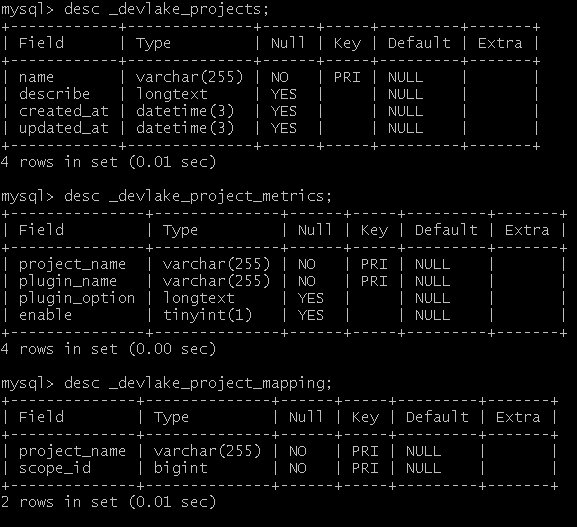
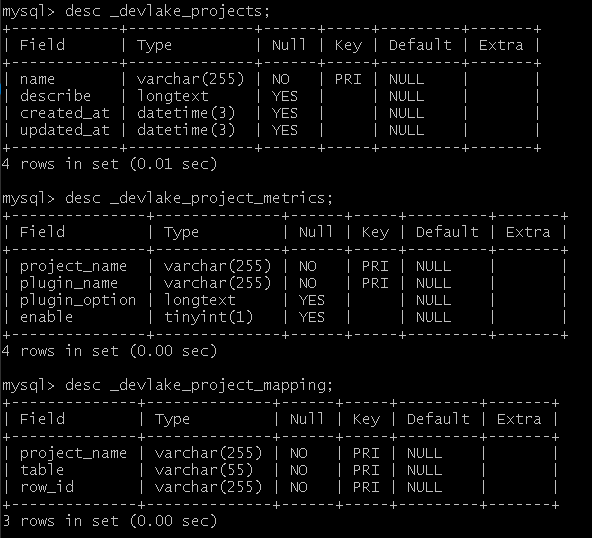
docs: fix for review
Nddtfjiang <zhicheng.jiang@merico.dev>

diff --git a/docs/DeveloperManuals/Project.md b/docs/DeveloperManuals/Project.md
@@ -10,7 +10,8 @@ description: >
 
 It contains the following two models:
  - `projects` describes a project object, including its name, creation and update time and other basic information
- - `project_metrics` describes the mapping relationship enabled by a plugin, including the name of the project and plugin on both sides of the mapping, and basic information about plugin options.
+ - `project_metrics` describes what metrics a project had enabled.
+ - `project_mapping` describes the mapping relationship of project and scope, including the name of the project、table and row_id.
 
 ![image](project_table.jpg)
 
@@ -50,50 +51,44 @@ It contains the following two models:
 |   **field**    | **type** | **length** | **description**                                            | **key** |
 | -------------- | -------- | ---------- | ---------------------------------------------------------- | ------- |
 | `project_name` | varchar  | 255        | name for project                                           | PK      |
-| `scope_id`     | bigint   | 255        | the scope id  by project mapping                           | PK      |
+| `table`        | varchar  | 255        | the table name of scope                                    | PK      |
+| `row_id`       | varchar  | 255        | the row_id in the scope table                              | PK      |
 
 
-| **project_name** | **scope_id** |
-| ---------------- | ------------ |
-| project_1        | 1            |
-| project_1        | 2            |
-| project_2        | 1            |
+| **project_name** | **table** | **row_id**               |
+| ---------------- | --------- | ------------------------ |
+| project_1        | Repo      | gitlab:GithubRepo:1:lake |
+| project_1        | Board     | jira:JiraBoard:1:lake    |
+| project_2        | Repo      | github:GithubRepo:1:lake |
 
 
 It requires each plugin to implement an interface named `PluginMetric`
 
 # 如何使用 Project
 
-1. 首先我们可以通过 `POST` `/project` 接口来创建一个全新的 `project` 对象，该对象需要一个 `project_name`字段，作为其名称，该名称唯一。
+1. 首先我们可以通过 `POST` `/projects/:projectName` 接口来创建一个全新的 `project` 对象，该对象需要一个 `projectName`字段，作为其名称，该名称唯一。
 
 当我们创建出 `project` 对象之后：
 
-- 我们可以通过 `GET` `/project` 接口来获取具体的的某一个 `project`的信息，除了名称外，这些信息里也包含了project的更新时间和创建时间。
-- 我们可以通过 `UPDATE` `/project` 接口来更新具体的某一个 `project`的信息，比如更新其相关的 `描述` 信息。
-- 我们可以通过 `GET` `/projects` 接口来获取所有的`project`信息。 
+- 我们可以通过 `GET /projects/:projectName` 接口来获取具体的的某一个 `project`的信息，除了名称外，这些信息里也包含了project的更新时间和创建时间,以及会关联所有的与当前`project`的相关的`project_metrics`和`project_mapping`信息，整合后一并返回。
+- 我们可以通过 `PATCH /projects/:projectName` 接口来更新具体的某一个 `project`的信息，比如更新其相关的 `描述` 信息。
+- 我们可以通过 `GET /projects` 接口来获取所有的`project`信息。 通过设置参数 `search` 可以对返回的信息进行过滤，通过设置参数`page_size`,`page_num`可以对返回的信息进行分页。
 
-2. 与此同时，我们可以通过 `GET` `/plugininfo` 接口来获取到 完整详细的 `插件` 信息，其中包括对应 `插件` 的每个表的结构信息。除此以外，我们也可以通过调用相对简单的 `GET` `/plugins` 来获取更为简洁的插件信息。简洁的插件信息仅包含插件名称，也就是`plugin_name`组成的列表，除此之外不包含其他任何信息。
+2. 与此同时，为了能给 project 指定需要的指标，我们可以通过调用接口 `GET` `/plugins` 来获取基本的插件信息。这将会返回一组包含`pluginName`组成的列表。
 
-3. 在上述过程之后 通过 `POST` `/project_metrics` 接口来创建一组 `project` 与 `plugins` 之间的关系。使用我们前面获取到的 `project_name` 和 `plugin_name` 来构建这种关系。同时为其配置相应的 `option`.
+3. 在上述过程之后 通过 `POST /project_metrics/:projectName/:pluginName` 接口来创建一组 `project` 与 `plugins` 之间的关系。使用我们前面获取到的 `projectName` 和 `pluginName` 来构建这种关系。同时为其配置相应的 `option`.
 
 当我们创建出一组 `project_metrics` 的关系后我们就可以做更进一步的操作：
 
-- 我们可以通过 `GET` `/project_metrics` 接口来获取一组 `project_metrics` 信息，我们可以只设置 `project_name` 或只设置 `plugin_name` 来进行筛选。也可以同时设置 `project_name` 和 `plugin_name` 此时我们将获取到一个特定的 `project_metrics` 信息。
-- 我们可以通过 `UPDATE` `/project_metrics` 接口来更新特定的一组 `project_metrics` 信息。这要求我们必须同时设置好 `project_name` 和 `plugin_name`。
+- 我们可以通过 `GET /project_metrics/:projectName/:pluginName` 接口来获取一组 `project_metrics` 信息，我们可以只设置 `projectName` 或只设置 `pluginName` 来进行筛选。也可以同时设置 `project_name` 和 `plugin_name` 此时我们将获取到一个特定的 `project_metrics` 信息。
+- 我们可以通过 `PATCH /project_metrics/:projectName/:pluginName` 接口来更新特定的一组 `project_metrics` 信息。这要求我们必须同时设置好 `projectName` 和 `pluginName`。
 
 # 关于 Project 和 Blueprint
 
 - 在 `blueprint` 的表中现在添加了一个与 `project` 相关联的字段 `project_name`，该字段表示 当前的 `blueprint` 唯一的属于某一张特定的 `project`
-- 一个`project`允许被多个 `blueprint` 的 `project_name` 字段指定。也就是`project`对`blueprint`是一对多关系
-- 可以通过以下sql 快速的查看 某个 `project` 所对应的全部 `blueprint`
-
-```
-SELECT * from `_devlake_blueprints` where `project_name`="ProjectName";
-```
-
+- 一个`project`允许被唯一的一个 `blueprint` 的 `project_name` 字段指定。也就是`project`对`blueprint`是一对一关系
 
 ## The PluginMetric Interface
-
 
 ```go
 type PluginMetric interface {
@@ -116,111 +111,4 @@ type PluginMetric interface {
     // (no concrete usage at this point)
     Settings() (p interface{})
 }
-```
-
-## models
-
-The following is the  table structure data of `project` related.
-
-```go
-type Projects struct {
-    Name string `gorm:"primaryKey" gorm:"type:varchar(255)"`
-    describe string `gorm:"type:text"`
-    CreatedAt time.time
-    UpdatedAt time.time
-}
-
-func (Projects) TableName() {
-    return "_devlake_projects"
-}
-
-type ProjectMetrics struct { 
-    ProjectName  string `gorm:"primaryKey" gorm:"type:varchar(255)"`
-    PluginName   string `gorm:"primaryKey" gorm:"type:varchar(255)"`
-    PluginOption string `gorm:"type:text"`
-}
-
-func (ProjectMetrics) TableName() {
-    return "_devlake_project_metrics"
-}
-
-type ProjectMetrics struct { 
-    ProjectName  string `gorm:"primaryKey" gorm:"type:varchar(255)"`
-    PluginName   string `gorm:"primaryKey" gorm:"type:varchar(255)"`
-    PluginOption string `gorm:"type:text"`
-}
-
-type ProjectMapping struct {
-	ProjectName string `gorm:"primaryKey;type:varchar(255)"`
-	ScopeID     string `gorm:"primaryKey;type:varchar(255)"`
-}
-
-func (ProjectMapping) TableName() string {
-	return "_devlake_project_mapping"
-}
-
-```
-
-## api
-
-`Project` will provide the following APIs to support users to perform related operations.
-
-```go
-// Used to obtain the corresponding information of all Projects
-// Request parameters: null
-// response parameter: the list of project infomation,complete information including updated time and created time information of Project
-// @Router /projects [get]
-func GetProjects(input *core.ApiResourceInput) (*core.ApiResourceOutput, errors.Error)
-
-// Used to obtain the corresponding information of the specified Project
-// Request parameters: including project_name
-// response parameter: complete information including updated time and created time information of Project
-// @Router /project [get]
-func GetProject(input *core.ApiResourceInput) (*core.ApiResourceOutput, errors.Error)
-
-// Used to create a new Project data
-// Request parameters: including project_name
-// response parameter: if created successfully
-// @Router /project [post]
-func PostProject(input *core.ApiResourceInput) (*core.ApiResourceOutput,errors.Error)
-
-// Used to update an existing Project data
-// Consider merging with Project into an interface
-// The advantage of separating into two interfaces is to avoid data loss caused by misoperation coverage
-// Request parameters: including project_name
-// response parameter: if updated successfully
-// @Router /project [update]
-func UpdateProject(input *core.ApiResourceInput) (*core.ApiResourceOutput,errors.Error)
-
-// Used to obtain the corresponding information of the specified ProjectMetrics
-// Request parameters: including project_name and plugin_name
-// response parameter: complete information including plugin_options information of ProjectMetrics
-// @Router /projectmetrics [get]
-func GetProjectMetrics(input *core.ApiResourceInput) (*core.ApiResourceOutput, errors.Error)
-
-// Used to create a new ProjectMetrics data
-// Request parameters: including project_name, plugin_name and plugin_options
-// response parameter: if created successfully
-// @Router /projectmetrics [post]
-func PostProjectMetrics(input *core.ApiResourceInput) (*core.ApiResourceOutput,errors.Error)
-
-// Used to update an existing ProjectMetrics data
-// Consider merging with PostProjectMetrics into an interface
-// The advantage of separating into two interfaces is to avoid data loss caused by misoperation coverage
-// Request parameters: including project_name, plugin_name and plugin_options
-// response parameter: if updated successfully
-// @Router /projectmetrics [update]
-func UpdateProjectMetrics(input *core.ApiResourceInput) (*core.ApiResourceOutput,errors.Error)
-
-// Used to obtain the list of all plug-ins registered in the current devlake
-// Request parameters: null
-// response parameter: all plugin detail data
-// @Router /plugininfo [get]
-func Get(c *gin.Context)
-
-// Used to obtain the list of all plug-ins registered in the current devlake
-// Request parameters: null
-// response parameter: all plugin names data
-// @Router /plugins [get]
-func GetPluginNames(c *gin.Context)
 ```
